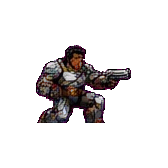
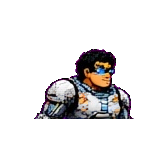
Dev Veterano: substitui as poses pela arte reformulada do dono
Nova fonte: bugs/Novos-personagens/'dev veterano reformulado.jpg' (fundo rosa
240,3,212 — folha com menos celulas, de proposito). Mapeamento atualizado no
tools/integrate_dev_veterano.py:
- idle r0 | walk r1 | punch r2 | crouch r3 | kick r4 | jump r6 | special r7
- ko = r6c2 (figura deitada) com shake
- cpunch/ckick/jpunch/jkick/hit/block/win continuam com shake sintetico
  (nenhum frame congelado, verificado por pixel)
- atlas de habilidades e face/retrato regenerados da mesma arte nova

Verificacao: ancoragem OK em 60 celulas (pe 246 chao / 220 ar), zero frames
congelados, corte limpo sem halo no zoom 2x, jogo rodando com sprite limpo.
Cache-buster: v12e-devvet-hq -> v12f-devvet-v2.

Changed region(s): [[0.2083, 0.2679, 0.8036, 0.744]]

diff --git a/index.html b/index.html
@@ -22,9 +22,9 @@
     })().catch((error) => console.warn('Cache cleanup failed:', error));
   </script>
   <link rel="icon" type="image/png" href="assets/share/favicon.png" />
-  <link rel="stylesheet" href="css/style.css?v=v12e-devvet-hq" />
-  <link rel="stylesheet" href="css/account.css?v=v12e-devvet-hq" />
-  <link rel="stylesheet" href="css/mobile.css?v=v12e-devvet-hq" />
+  <link rel="stylesheet" href="css/style.css?v=v12f-devvet-v2" />
+  <link rel="stylesheet" href="css/account.css?v=v12f-devvet-v2" />
+  <link rel="stylesheet" href="css/mobile.css?v=v12f-devvet-v2" />
 </head>
 <body>
   <div id="loader" role="status" aria-live="polite">
@@ -365,7 +365,7 @@
     </div>
   </div>
 
-  <script src="assets/sprites/layout.js?v=v12e-devvet-hq"></script>
+  <script src="assets/sprites/layout.js?v=v12f-devvet-v2"></script>
   <script>
     /* Blindagem contra layout.js velho em cache: os arquivos de dados
        (fighters-v7..v11) escrevem em SPRITE_LAYOUT.files / .perFighter,
@@ -389,50 +389,50 @@
       }
     })();
   </script>
-  <script src="assets/stages/sheets.js?v=v12e-devvet-hq"></script>
-  <script src="assets/maps/anim.js?v=v12e-devvet-hq"></script>
-  <script src="js/core/profile.js?v=v12e-devvet-hq"></script>
-  <script src="js/config/firebase-config.js?v=v12e-devvet-hq"></script>
-  <script src="js/core/cloud.js?v=v12e-devvet-hq"></script>
-  <script src="js/config/supabase-config.js?v=v12e-devvet-hq"></script>
+  <script src="assets/stages/sheets.js?v=v12f-devvet-v2"></script>
+  <script src="assets/maps/anim.js?v=v12f-devvet-v2"></script>
+  <script src="js/core/profile.js?v=v12f-devvet-v2"></script>
+  <script src="js/config/firebase-config.js?v=v12f-devvet-v2"></script>
+  <script src="js/core/cloud.js?v=v12f-devvet-v2"></script>
+  <script src="js/config/supabase-config.js?v=v12f-devvet-v2"></script>
   <script src="js/vendor/supabase-2.118.0.js"></script>
-  <script src="js/core/supabase-cloud.js?v=v12e-devvet-hq"></script>
-  <script src="js/data/fighters.js?v=v12e-devvet-hq"></script>
-  <script src="js/data/fighters-v10.js?v=v12e-devvet-hq"></script>
-  <script src="js/data/fighters-v11.js?v=v12e-devvet-hq"></script>
-  <script src="js/data/powers.js?v=v12e-devvet-hq"></script>
-  <script src="js/data/powers-turbo.js?v=v12e-devvet-hq"></script>
-  <script src="js/data/powers-v4.js?v=v12e-devvet-hq"></script>
-  <script src="js/data/powers-v5.js?v=v12e-devvet-hq"></script>
-  <script src="js/data/powers-v6.js?v=v12e-devvet-hq"></script>
-  <script src="js/data/powers-balance-v6.js?v=v12e-devvet-hq"></script>
-  <script src="js/data/powers-v7.js?v=v12e-devvet-hq"></script>
-  <script src="js/data/powers-v8.js?v=v12e-devvet-hq"></script>
-  <script src="js/data/powers-v9.js?v=v12e-devvet-hq"></script>
-  <script src="js/data/powers-v10.js?v=v12e-devvet-hq"></script>
-  <script src="js/data/powers-v11.js?v=v12e-devvet-hq"></script>
-    <script src="js/data/fighters-v12.js?v=v12e-devvet-hq"></script>
-  <script src="js/data/pets.js?v=v12e-devvet-hq"></script>
-  <script src="js/data/stages.js?v=v12e-devvet-hq"></script>
-  <script src="js/engine/sprites.js?v=v12e-devvet-hq"></script>
-  <script src="js/engine/fx.js?v=v12e-devvet-hq"></script>
-  <script src="js/engine/audio.js?v=v12e-devvet-hq"></script>
-  <script src="js/engine/input.js?v=v12e-devvet-hq"></script>
-  <script src="js/ui/viewport.js?v=v12e-devvet-hq"></script>
-  <script src="js/engine/projectile.js?v=v12e-devvet-hq"></script>
-  <script src="js/engine/fighter.js?v=v12e-devvet-hq"></script>
-  <script src="js/engine/weather.js?v=v12e-devvet-hq"></script>
-  <script src="js/engine/mechanics.js?v=v12e-devvet-hq"></script>
-  <script src="js/engine/stage.js?v=v12e-devvet-hq"></script>
-  <script src="js/engine/ai.js?v=v12e-devvet-hq"></script>
-  <script src="js/engine/game.js?v=v12e-devvet-hq"></script>
+  <script src="js/core/supabase-cloud.js?v=v12f-devvet-v2"></script>
+  <script src="js/data/fighters.js?v=v12f-devvet-v2"></script>
+  <script src="js/data/fighters-v10.js?v=v12f-devvet-v2"></script>
+  <script src="js/data/fighters-v11.js?v=v12f-devvet-v2"></script>
+  <script src="js/data/powers.js?v=v12f-devvet-v2"></script>
+  <script src="js/data/powers-turbo.js?v=v12f-devvet-v2"></script>
+  <script src="js/data/powers-v4.js?v=v12f-devvet-v2"></script>
+  <script src="js/data/powers-v5.js?v=v12f-devvet-v2"></script>
+  <script src="js/data/powers-v6.js?v=v12f-devvet-v2"></script>
+  <script src="js/data/powers-balance-v6.js?v=v12f-devvet-v2"></script>
+  <script src="js/data/powers-v7.js?v=v12f-devvet-v2"></script>
+  <script src="js/data/powers-v8.js?v=v12f-devvet-v2"></script>
+  <script src="js/data/powers-v9.js?v=v12f-devvet-v2"></script>
+  <script src="js/data/powers-v10.js?v=v12f-devvet-v2"></script>
+  <script src="js/data/powers-v11.js?v=v12f-devvet-v2"></script>
+    <script src="js/data/fighters-v12.js?v=v12f-devvet-v2"></script>
+  <script src="js/data/pets.js?v=v12f-devvet-v2"></script>
+  <script src="js/data/stages.js?v=v12f-devvet-v2"></script>
+  <script src="js/engine/sprites.js?v=v12f-devvet-v2"></script>
+  <script src="js/engine/fx.js?v=v12f-devvet-v2"></script>
+  <script src="js/engine/audio.js?v=v12f-devvet-v2"></script>
+  <script src="js/engine/input.js?v=v12f-devvet-v2"></script>
+  <script src="js/ui/viewport.js?v=v12f-devvet-v2"></script>
+  <script src="js/engine/projectile.js?v=v12f-devvet-v2"></script>
+  <script src="js/engine/fighter.js?v=v12f-devvet-v2"></script>
+  <script src="js/engine/weather.js?v=v12f-devvet-v2"></script>
+  <script src="js/engine/mechanics.js?v=v12f-devvet-v2"></script>
+  <script src="js/engine/stage.js?v=v12f-devvet-v2"></script>
+  <script src="js/engine/ai.js?v=v12f-devvet-v2"></script>
+  <script src="js/engine/game.js?v=v12f-devvet-v2"></script>
   <script src="js/vendor/peerjs.min.js"></script>
-  <script src="js/net/room-core.js?v=v12e-devvet-hq"></script>
-  <script src="js/net/online.js?v=v12e-devvet-hq"></script>
-  <script src="js/ui/hud.js?v=v12e-devvet-hq"></script>
-  <script src="js/ui/ui.js?v=v12e-devvet-hq"></script>
-  <script src="js/ui/account.js?v=v12e-devvet-hq"></script>
-  <script src="js/main.js?v=v12e-devvet-hq"></script>
-  <script src="js/net/tournament.js?v=v12e-devvet-hq"></script>
+  <script src="js/net/room-core.js?v=v12f-devvet-v2"></script>
+  <script src="js/net/online.js?v=v12f-devvet-v2"></script>
+  <script src="js/ui/hud.js?v=v12f-devvet-v2"></script>
+  <script src="js/ui/ui.js?v=v12f-devvet-v2"></script>
+  <script src="js/ui/account.js?v=v12f-devvet-v2"></script>
+  <script src="js/main.js?v=v12f-devvet-v2"></script>
+  <script src="js/net/tournament.js?v=v12f-devvet-v2"></script>
 </body>
 </html>

diff --git a/js/engine/sprites.js b/js/engine/sprites.js
@@ -26,8 +26,8 @@ const SpriteGen = {
   url(id) {
     const src = (SPRITE_LAYOUT.files || {})[id] || 'assets/sprites/' + id + '.png';
     // v=... serve pra invalidar cache: SEMPRE bump quando o PNG mudar.
-    // v12e-devvet-hq: Dev Veterano HQ (sem fringe, sem frames congelados) (grika/ash/rin/katya fora) + pulo no ar.
-    return src + '?v=v12e-devvet-hq';
+    // v12f-devvet-v2: Dev Veterano com a arte reformulada (grika/ash/rin/katya fora) + pulo no ar.
+    return src + '?v=v12f-devvet-v2';
   },
   faceUrl(id) {
     return `assets/ui/face-${id}.png?v=spritefix-4x15b`;

diff --git a/js/engine/fx.js b/js/engine/fx.js
@@ -23,7 +23,7 @@ const ART_SHEETS = {
 const Art = {
   images: {},
   url(src) {
-    return src + '?v=v12e-devvet-hq';
+    return src + '?v=v12f-devvet-v2';
   },
   load() {
     Object.entries(ART_SHEETS).forEach(([key, s]) => {

diff --git a/tools/integrate_dev_veterano.py b/tools/integrate_dev_veterano.py
@@ -24,31 +24,31 @@ from PIL import Image, ImageFilter
 from scipy import ndimage
 
 ROOT = Path(__file__).resolve().parents[1]
-SRC_SPR = ROOT / 'bugs/Novos-personagens/Dev veterano.jpg'
+SRC_SPR = ROOT / 'bugs/Novos-personagens/dev veterano reformulado.jpg'
 SRC_AB = ROOT / 'bugs/Novos-personagens/habilidades-dev-veterano.png'
 CW, CH, BASE = 320, 260, 246
 AIR_BASE = 220
 
 ROWS = [0, 105, 200, 303, 402, 490, 556, 693, 896]
 COLS = [(5, 196), (306, 467), (581, 718), (794, 955), (1010, 1170)]
-MAGENTA = np.array([225, 3, 171])
+MAGENTA = np.array([240, 3, 212])
 
 # pose -> (lista de índices de célula [col,row], altura alvo da arte, pé)
 POSES = [
     ('idle',    [(0, 0), (1, 0), (2, 0), (3, 0)], 195, BASE),
-    ('walk',    [(0, 1), (1, 1), (2, 1), (3, 1)], 190, BASE),
-    ('jump',    [(0, 6), (1, 6), (2, 6), (3, 6)], 165, AIR_BASE),
-    ('crouch',  [(0, 3), (1, 3), (2, 3), (3, 3)], 120, BASE),
-    ('punch',   [(0, 2), (1, 2), (2, 2), (3, 2)], 175, BASE),
-    ('kick',    [(0, 4), (1, 4), (2, 4), (3, 4)], 165, BASE),
+    ('walk',    [(0, 1), (1, 1), (2, 1), (4, 1)], 185, BASE),
+    ('jump',    [(0, 6), (1, 6), (4, 6), (1, 6)], 165, AIR_BASE),
+    ('crouch',  [(0, 3), (1, 3), (2, 3), (0, 3)], 125, BASE),
+    ('punch',   [(0, 2), (1, 2), (2, 2), (4, 2)], 175, BASE),
+    ('kick',    [(0, 4), (1, 4), (2, 4), (4, 4)], 165, BASE),
     ('cpunch',  [(4, 3), (4, 3), (4, 3), (4, 3)], 130, BASE),
-    ('ckick',   [(4, 4), (4, 4), (4, 4), (4, 4)], 150, BASE),
+    ('ckick',   [(3, 4), (3, 4), (3, 4), (3, 4)], 150, BASE),
     ('jpunch',  [(4, 2), (4, 2), (4, 2), (4, 2)], 170, AIR_BASE),
-    ('jkick',   [(4, 6), (4, 6), (4, 6), (4, 6)], 160, AIR_BASE),
+    ('jkick',   [(4, 4), (4, 4), (4, 4), (4, 4)], 160, AIR_BASE),
     ('special', [(0, 7), (1, 7), (2, 7), (3, 7)], 195, BASE),
     ('hit',     [(4, 1), (4, 1), (4, 1), (4, 1)], 185, BASE),
     ('block',   [(4, 0), (4, 0), (4, 0), (4, 0)], 190, BASE),
-    ('ko',      [(0, 5), (1, 5), (2, 5), (3, 5)], 70, BASE),
+    ('ko',      [(2, 6), (2, 6), (2, 6), (2, 6)], 76, BASE),
     ('win',     [(4, 7), (4, 7), (4, 7), (4, 7)], 195, BASE),
 ]
 
@@ -62,6 +62,7 @@ SHAKE = {
     'hit': [0, 5, -5, 2],
     'block': [0, -2, 0, 2],
     'win': [0, 2, 0, -2],
+    'ko': [0, 4, -4, 0],
 }
 
 
